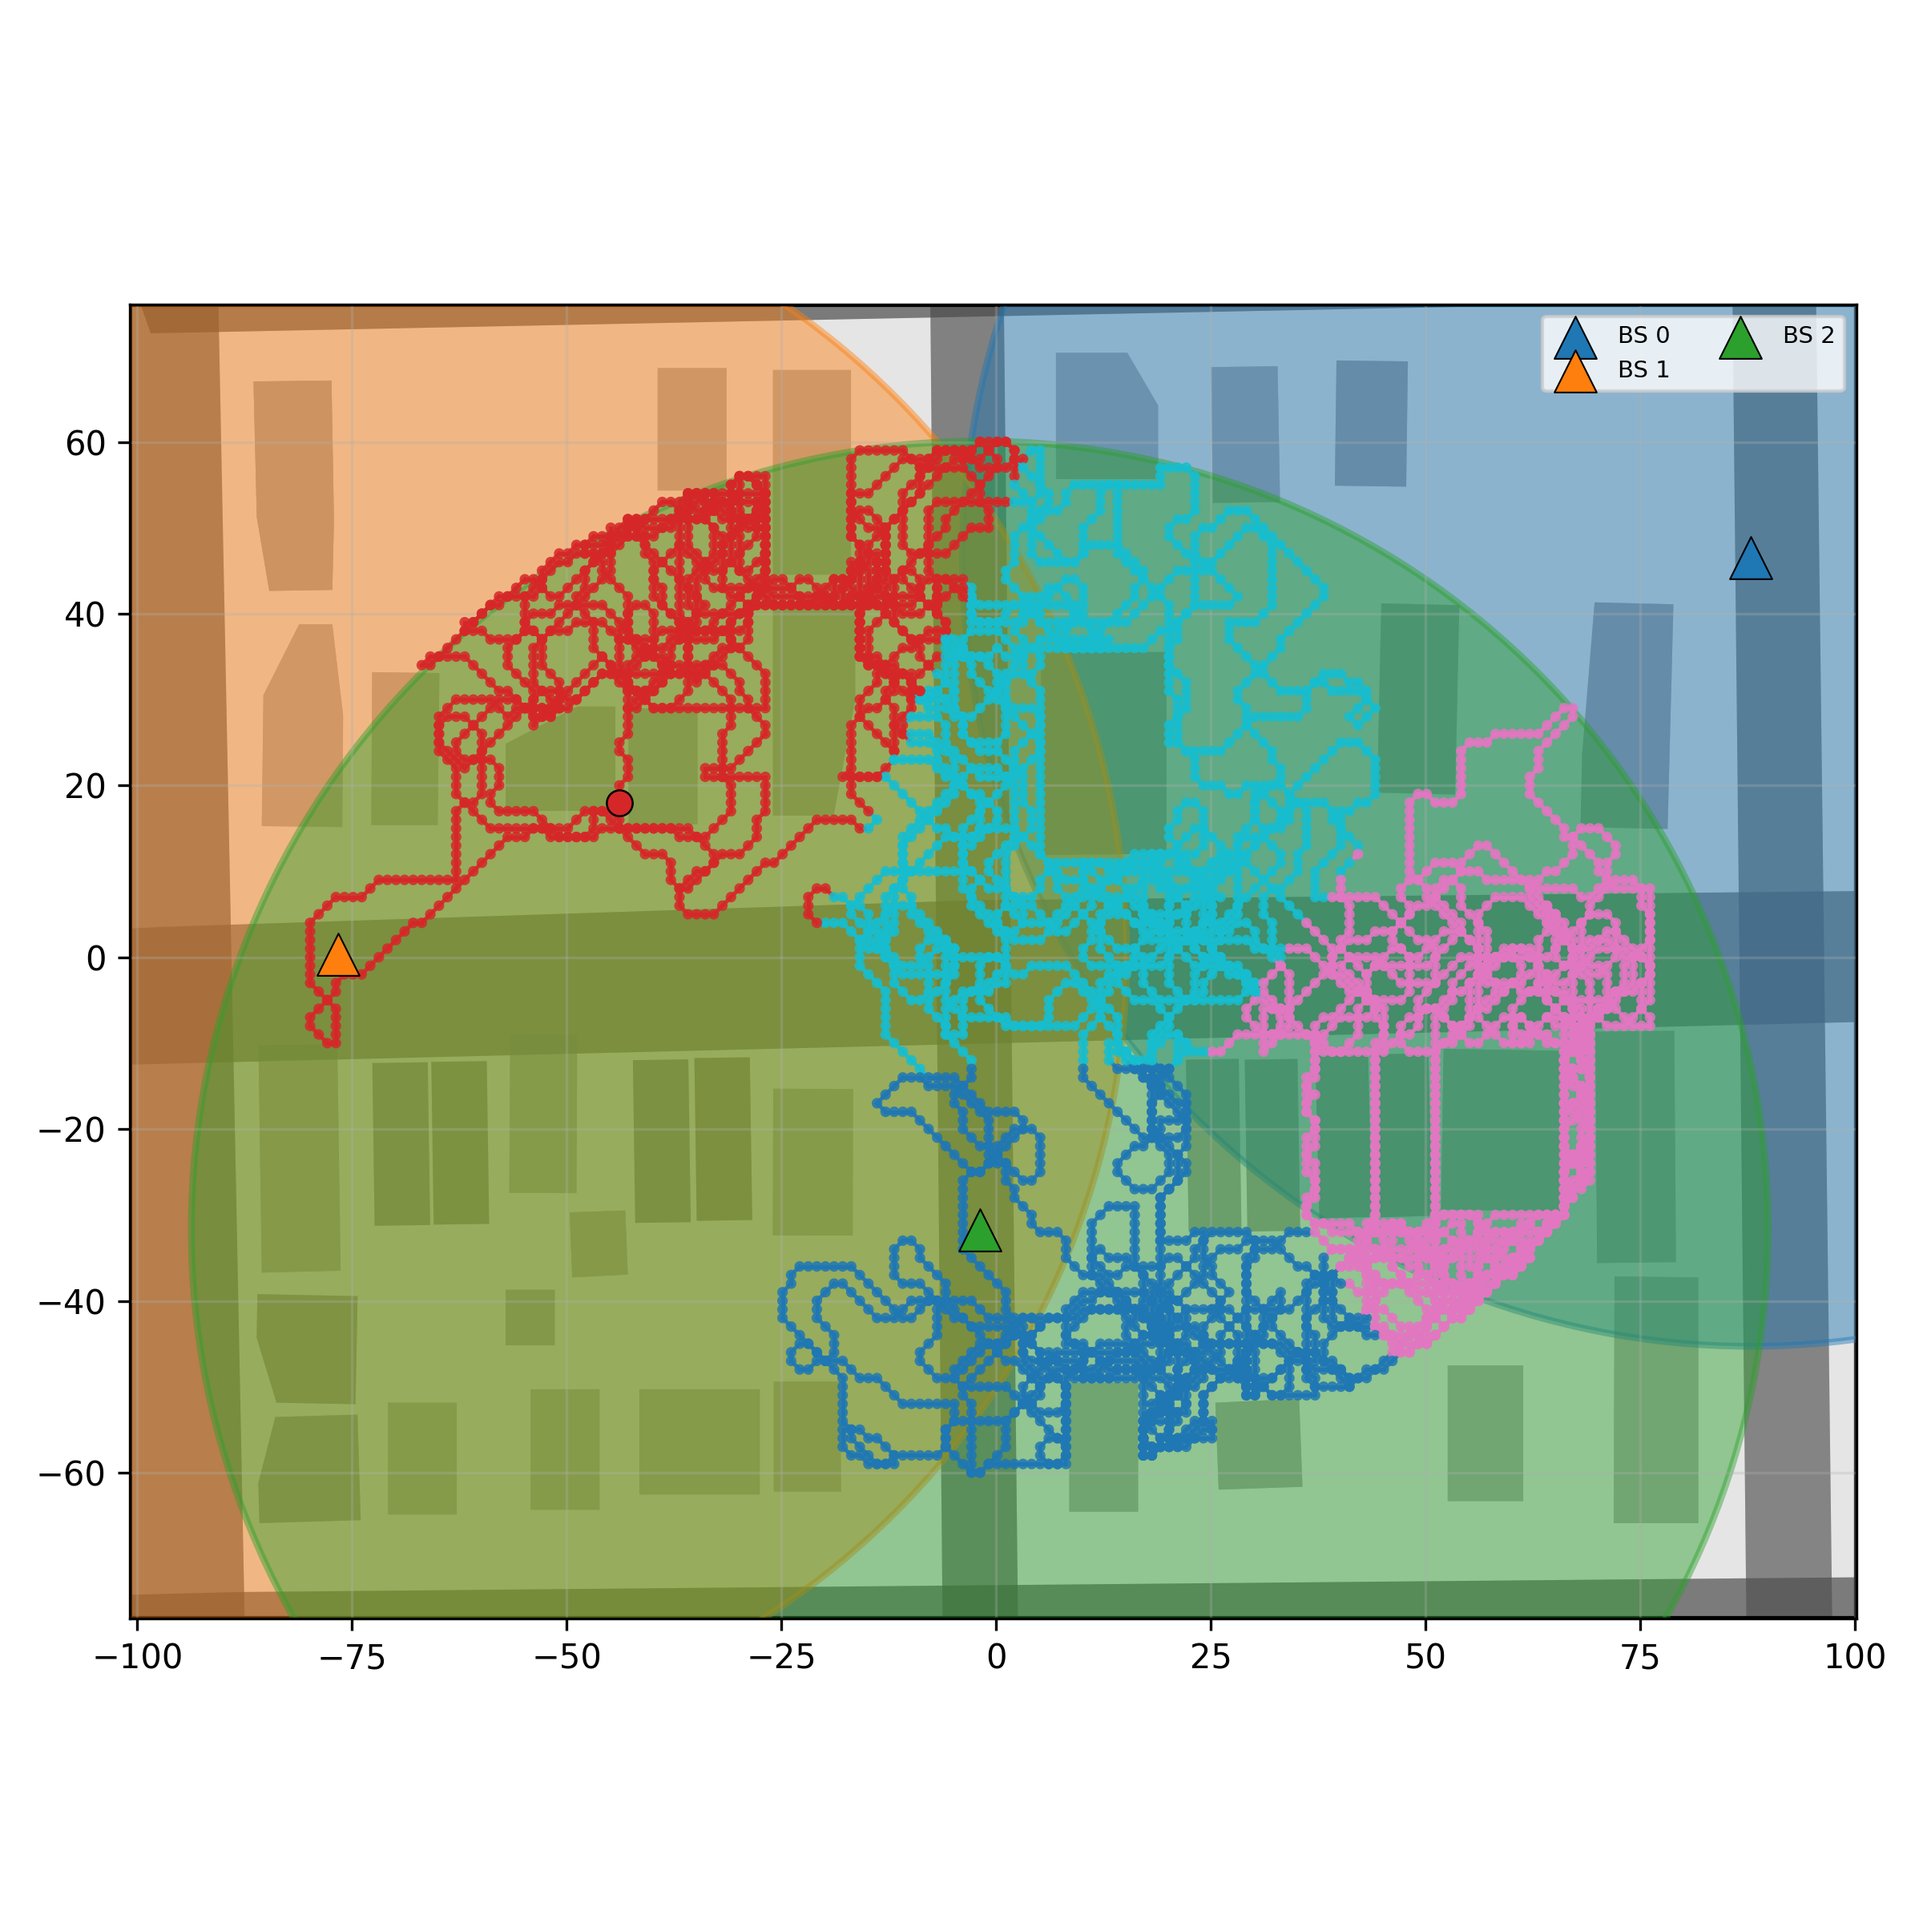
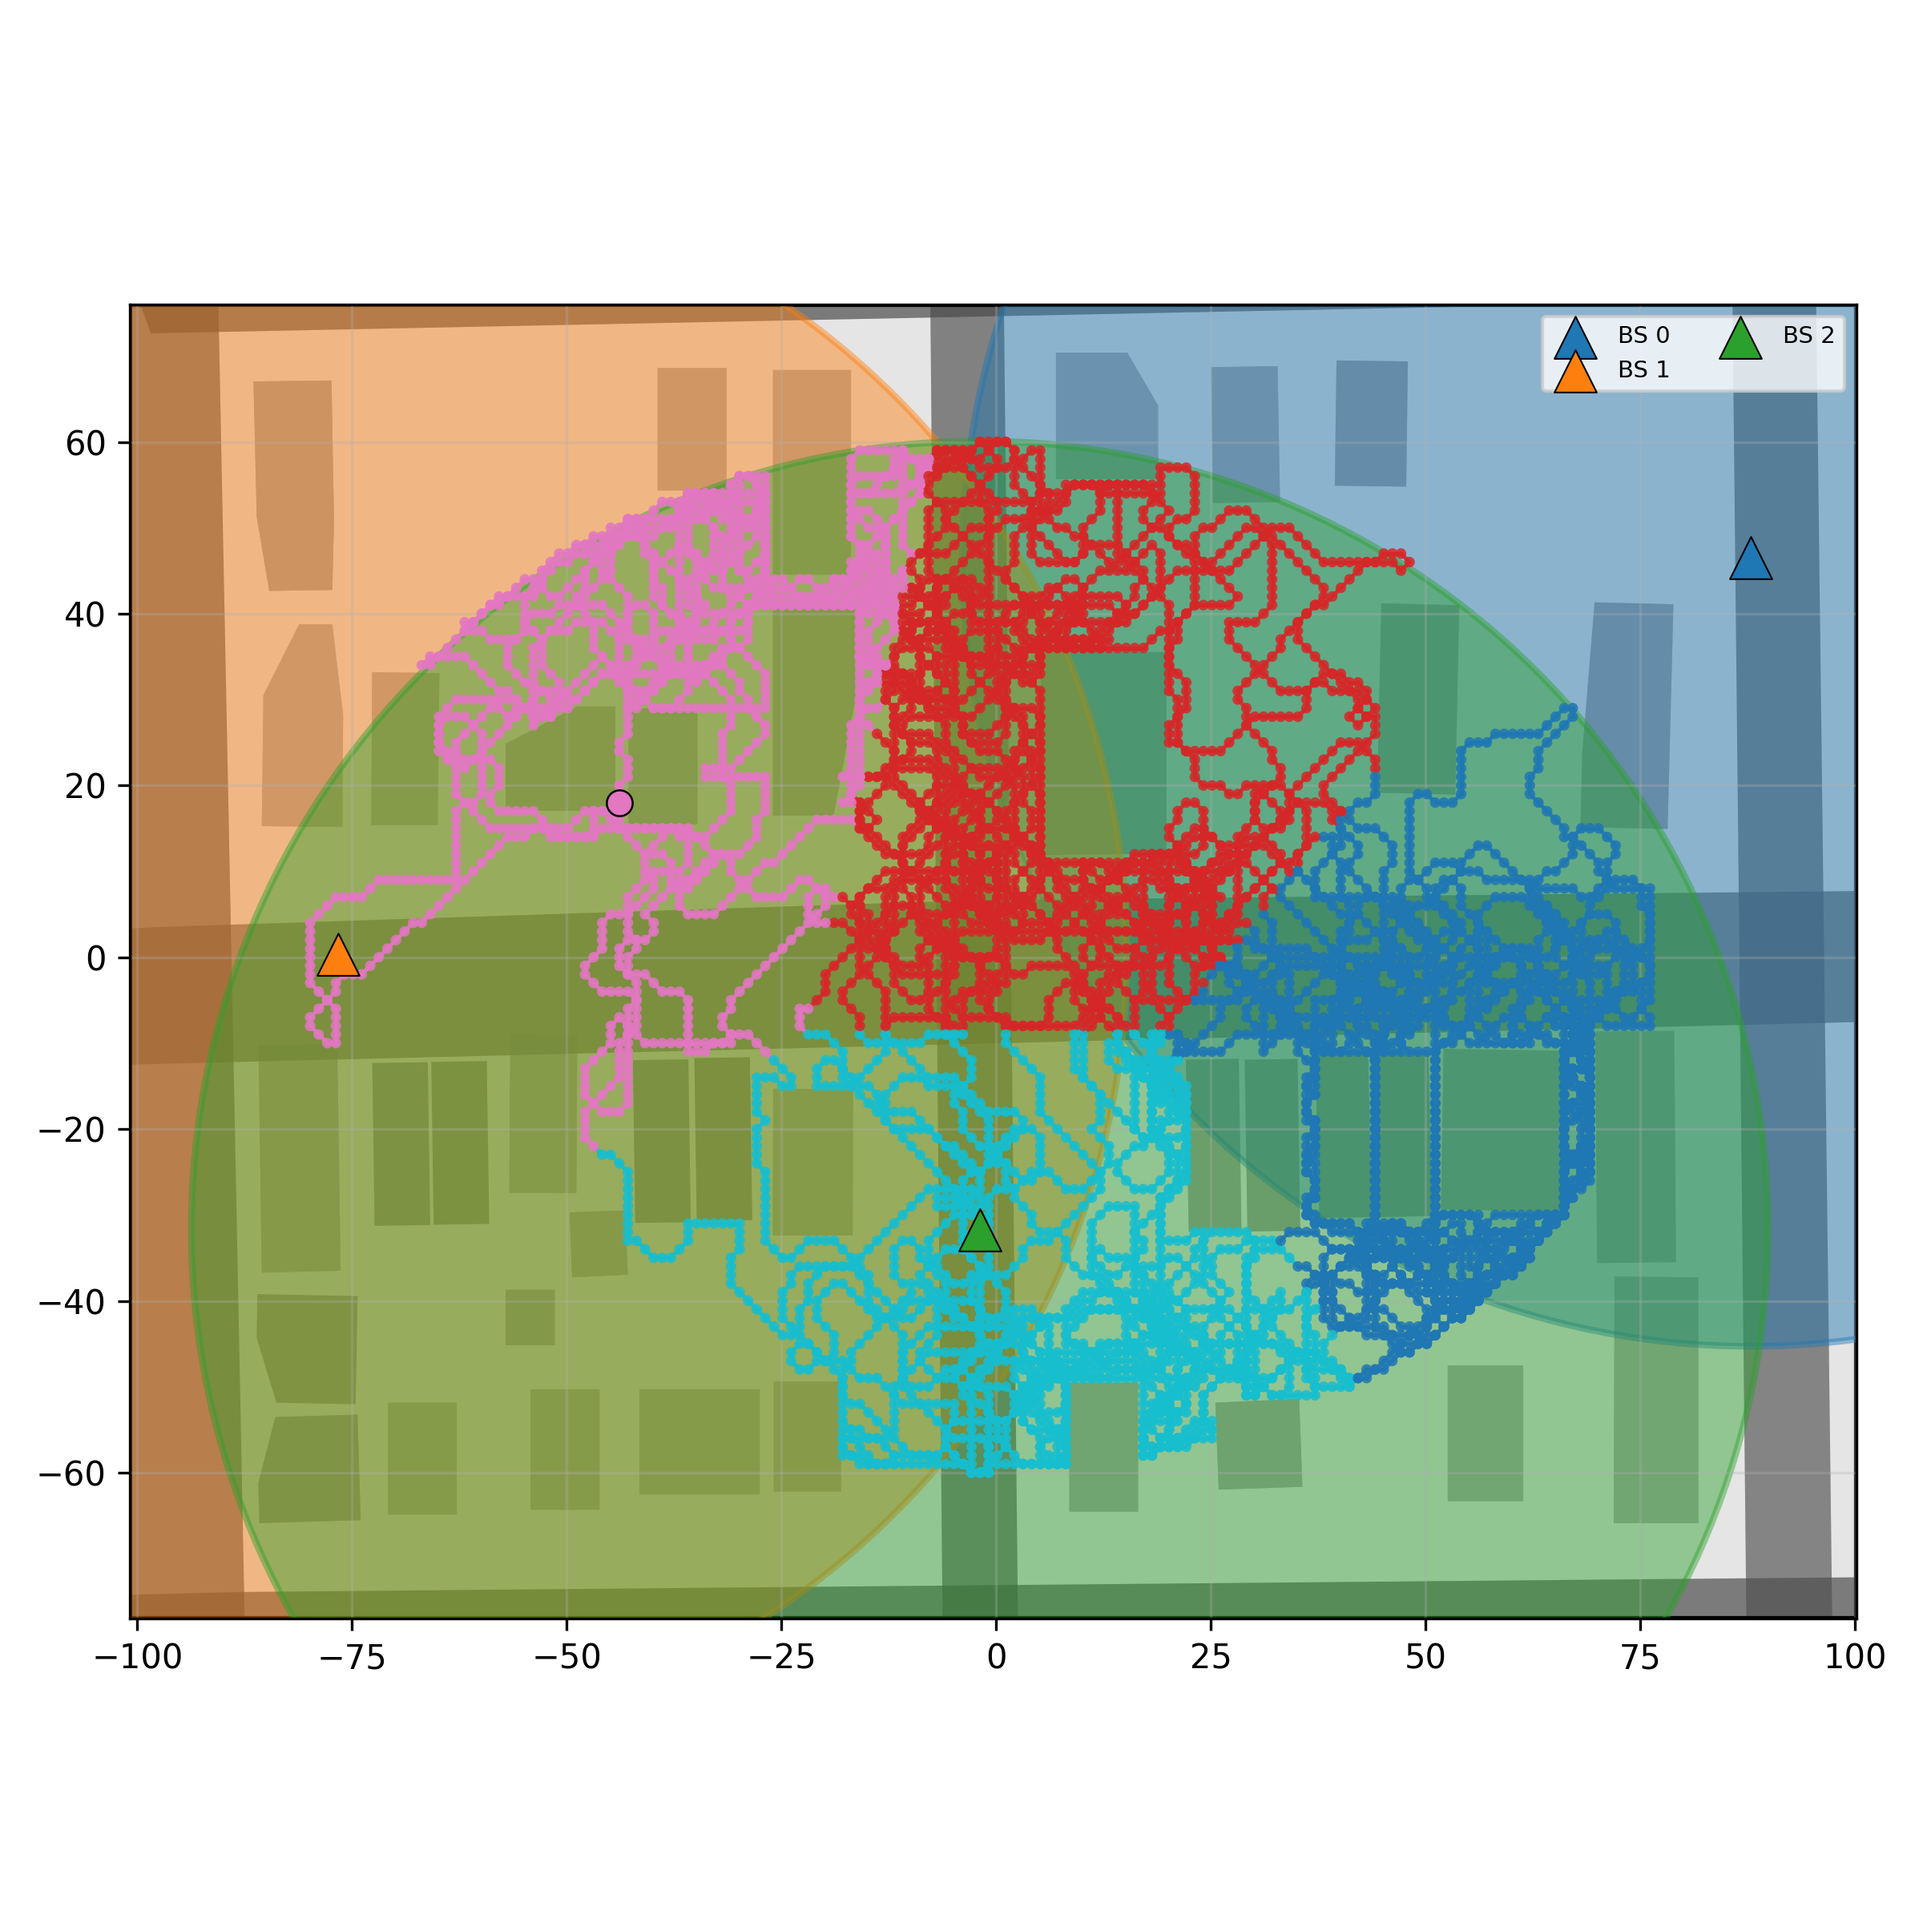
maybe we did it

Changed region(s): [[0.1562, 0.2188, 0.875, 0.7812]]

diff --git a/src/orchestrators/base_orchestrator.py b/src/orchestrators/base_orchestrator.py
@@ -378,10 +378,6 @@ class BaseOrchestrator(l.LightningModule, ABC):
 
         return embs, pos, embs_KDTree, pos_KDTree
 
-    def build_test_trajectory(self, agent_idx: int):
-        """Backward compatibility alias for build_trajectory with split='test'."""
-        return self.build_trajectory(agent_idx=agent_idx, split='test')
-
     def compute_continuity(
         self,
         embs: torch.Tensor,
@@ -556,8 +552,9 @@ class BaseOrchestrator(l.LightningModule, ABC):
         # Results
         res = {'KS': [], 'CT': defaultdict(list), 'TW': defaultdict(list)}
         for agent_idx in self.agents:
-            embs, pos, embs_KDTree, pos_KDTree = self.build_test_trajectory(
-                agent_idx=int(agent_idx)
+            embs, pos, embs_KDTree, pos_KDTree = self.build_trajectory(
+                agent_idx=int(agent_idx),
+                split='test',
             )
             res['KS'].append(self.compute_kruskal_stress(embs=embs, pos=pos))
             for K in range(K_min, K_max + 1, step):
@@ -590,7 +587,11 @@ class BaseOrchestrator(l.LightningModule, ABC):
         use_clusters: bool = True,
         split: str = 'test',
         prefix: str = 'trajectory',
+        last_epoch_only: bool = False,
     ) -> None:
+        # Skip plotting if not last epoch and last_epoch_only is True
+        if last_epoch_only and self.current_epoch < self.trainer.max_epochs - 1:
+            return
         for agent_idx in self.agents:
             agent = self.agents[agent_idx]
             if agent.out_dim != 2:

diff --git a/src/orchestrators/optimal_transport_cc.py b/src/orchestrators/optimal_transport_cc.py
@@ -104,8 +104,8 @@ class OptimalTransportCC(BaseOrchestrator):
         self.log('train/lmb', self._lmb, on_step=False, on_epoch=True, prog_bar=True)
 
     def on_train_epoch_end(self) -> None:
-        self.plot_latent_space(split='test', prefix='trajectory_test')
-        self.plot_latent_space(split='train', prefix='trajectory_train')
+        self.plot_latent_space(split='test', prefix='trajectory_test', last_epoch_only=True)
+        self.plot_latent_space(split='train', prefix='trajectory_train', last_epoch_only=True)
 
     def _shared_eval(
         self,

diff --git a/src/orchestrators/cover_sheaf_cc.py b/src/orchestrators/cover_sheaf_cc.py
@@ -71,8 +71,8 @@ class CoverSheafCC(BaseOrchestrator):
     @torch.no_grad()
     def on_train_epoch_end(self):
         """Local reference frames fixed to identity — no alignment update."""
-        self.plot_latent_space(split='test', prefix='trajectory_test')
-        self.plot_latent_space(split='train', prefix='trajectory_train')
+        self.plot_latent_space(split='test', prefix='trajectory_test', last_epoch_only=True)
+        self.plot_latent_space(split='train', prefix='trajectory_train', last_epoch_only=True)
 
     def _shared_eval(
         self,

diff --git a/src/orchestrators/neural_diag_sheaf.py b/src/orchestrators/neural_diag_sheaf.py
@@ -99,8 +99,8 @@ class NeuralDiagSheafCC(BaseOrchestrator):
         self.log('train/lmb', self._lmb, on_step=False, on_epoch=True, prog_bar=True)
 
     def on_train_epoch_end(self) -> None:
-        self.plot_latent_space(split='test', prefix='trajectory_test')
-        self.plot_latent_space(split='train', prefix='trajectory_train')
+        self.plot_latent_space(split='test', prefix='trajectory_test', last_epoch_only=True)
+        self.plot_latent_space(split='train', prefix='trajectory_train', last_epoch_only=True)
 
     def _shared_eval(
         self,

diff --git a/src/orchestrators/personalized_federated_cc.py b/src/orchestrators/personalized_federated_cc.py
@@ -241,8 +241,8 @@ class PersonalizedFederatedCC(BaseOrchestrator):
         for idx_i, agent in agents.items():
             agent.load_state_dict(new_states[idx_i])
 
-        self.plot_latent_space(split='test', prefix='trajectory_test')
-        self.plot_latent_space(split='train', prefix='trajectory_train')
+        self.plot_latent_space(split='test', prefix='trajectory_test', last_epoch_only=True)
+        self.plot_latent_space(split='train', prefix='trajectory_train', last_epoch_only=True)
 
     def _shared_eval(
         self,

diff --git a/src/orchestrators/flat_bundle_cc.py b/src/orchestrators/flat_bundle_cc.py
@@ -123,8 +123,8 @@ class FlatBundleCC(BaseOrchestrator):
         # Update local reference frames
         self.local_reference_frames = local_reference_frames_temp
 
-        self.plot_latent_space(split='test', prefix='trajectory_test')
-        self.plot_latent_space(split='train', prefix='trajectory_train')
+        self.plot_latent_space(split='test', prefix='trajectory_test', last_epoch_only=True)
+        self.plot_latent_space(split='train', prefix='trajectory_train', last_epoch_only=True)
 
     def _shared_eval(
         self,

diff --git a/src/orchestrators/federated_cc.py b/src/orchestrators/federated_cc.py
@@ -178,8 +178,8 @@ class FederatedCC(BaseOrchestrator):
         for idx_i, agent in agents.items():
             agent.load_state_dict(new_states[idx_i])
 
-        self.plot_latent_space(split='test', prefix='trajectory_test')
-        self.plot_latent_space(split='train', prefix='trajectory_train')
+        self.plot_latent_space(split='test', prefix='trajectory_test', last_epoch_only=True)
+        self.plot_latent_space(split='train', prefix='trajectory_train', last_epoch_only=True)
 
     def _shared_eval(
         self,

diff --git a/src/orchestrators/vanilla_baseline.py b/src/orchestrators/vanilla_baseline.py
@@ -160,8 +160,8 @@ class VanillaCC(BaseOrchestrator):
         -------
         None
         """
-        self.plot_latent_space(split='test', prefix='trajectory_test')
-        self.plot_latent_space(split='train', prefix='trajectory_train')
+        self.plot_latent_space(split='test', prefix='trajectory_test', last_epoch_only=True)
+        self.plot_latent_space(split='train', prefix='trajectory_train', last_epoch_only=True)
 
     def _compute_FOSCTTM(self) -> None:
         pass

diff --git a/src/orchestrators/bundle_cc.py b/src/orchestrators/bundle_cc.py
@@ -188,8 +188,8 @@ class BundleCC(BaseOrchestrator):
 
         self.orthogonal_maps = orthogonal_maps_temp
 
-        self.plot_latent_space(split='test', prefix='trajectory_test')
-        self.plot_latent_space(split='train', prefix='trajectory_train')
+        self.plot_latent_space(split='test', prefix='trajectory_test', last_epoch_only=True)
+        self.plot_latent_space(split='train', prefix='trajectory_train', last_epoch_only=True)
 
     def _shared_eval(
         self,

diff --git a/src/orchestrators/diag_sheaf.py b/src/orchestrators/diag_sheaf.py
@@ -107,8 +107,8 @@ class DiagSheafCC(BaseOrchestrator):
 
         self.diagonal_maps = diagonal_maps_temp
 
-        self.plot_latent_space(split='test', prefix='trajectory_test')
-        self.plot_latent_space(split='train', prefix='trajectory_train')
+        self.plot_latent_space(split='test', prefix='trajectory_test', last_epoch_only=True)
+        self.plot_latent_space(split='train', prefix='trajectory_train', last_epoch_only=True)
 
     def _shared_eval(
         self,

diff --git a/scripts/plot_data.py b/scripts/plot_data.py
@@ -26,6 +26,8 @@ def main(cfg: DictConfig):
 
     # dm.train_dataloader()
     dm.plot_trajectories(n=1, n_clusters=4, sequential_shading=True)
+    dm.plot_trajectories(n=1, n_clusters=4, sequential_shading=True, stage='test')
+    dm.plot_trajectories(n=1, n_clusters=4, sequential_shading=True, stage='val')
 
     return None
 
